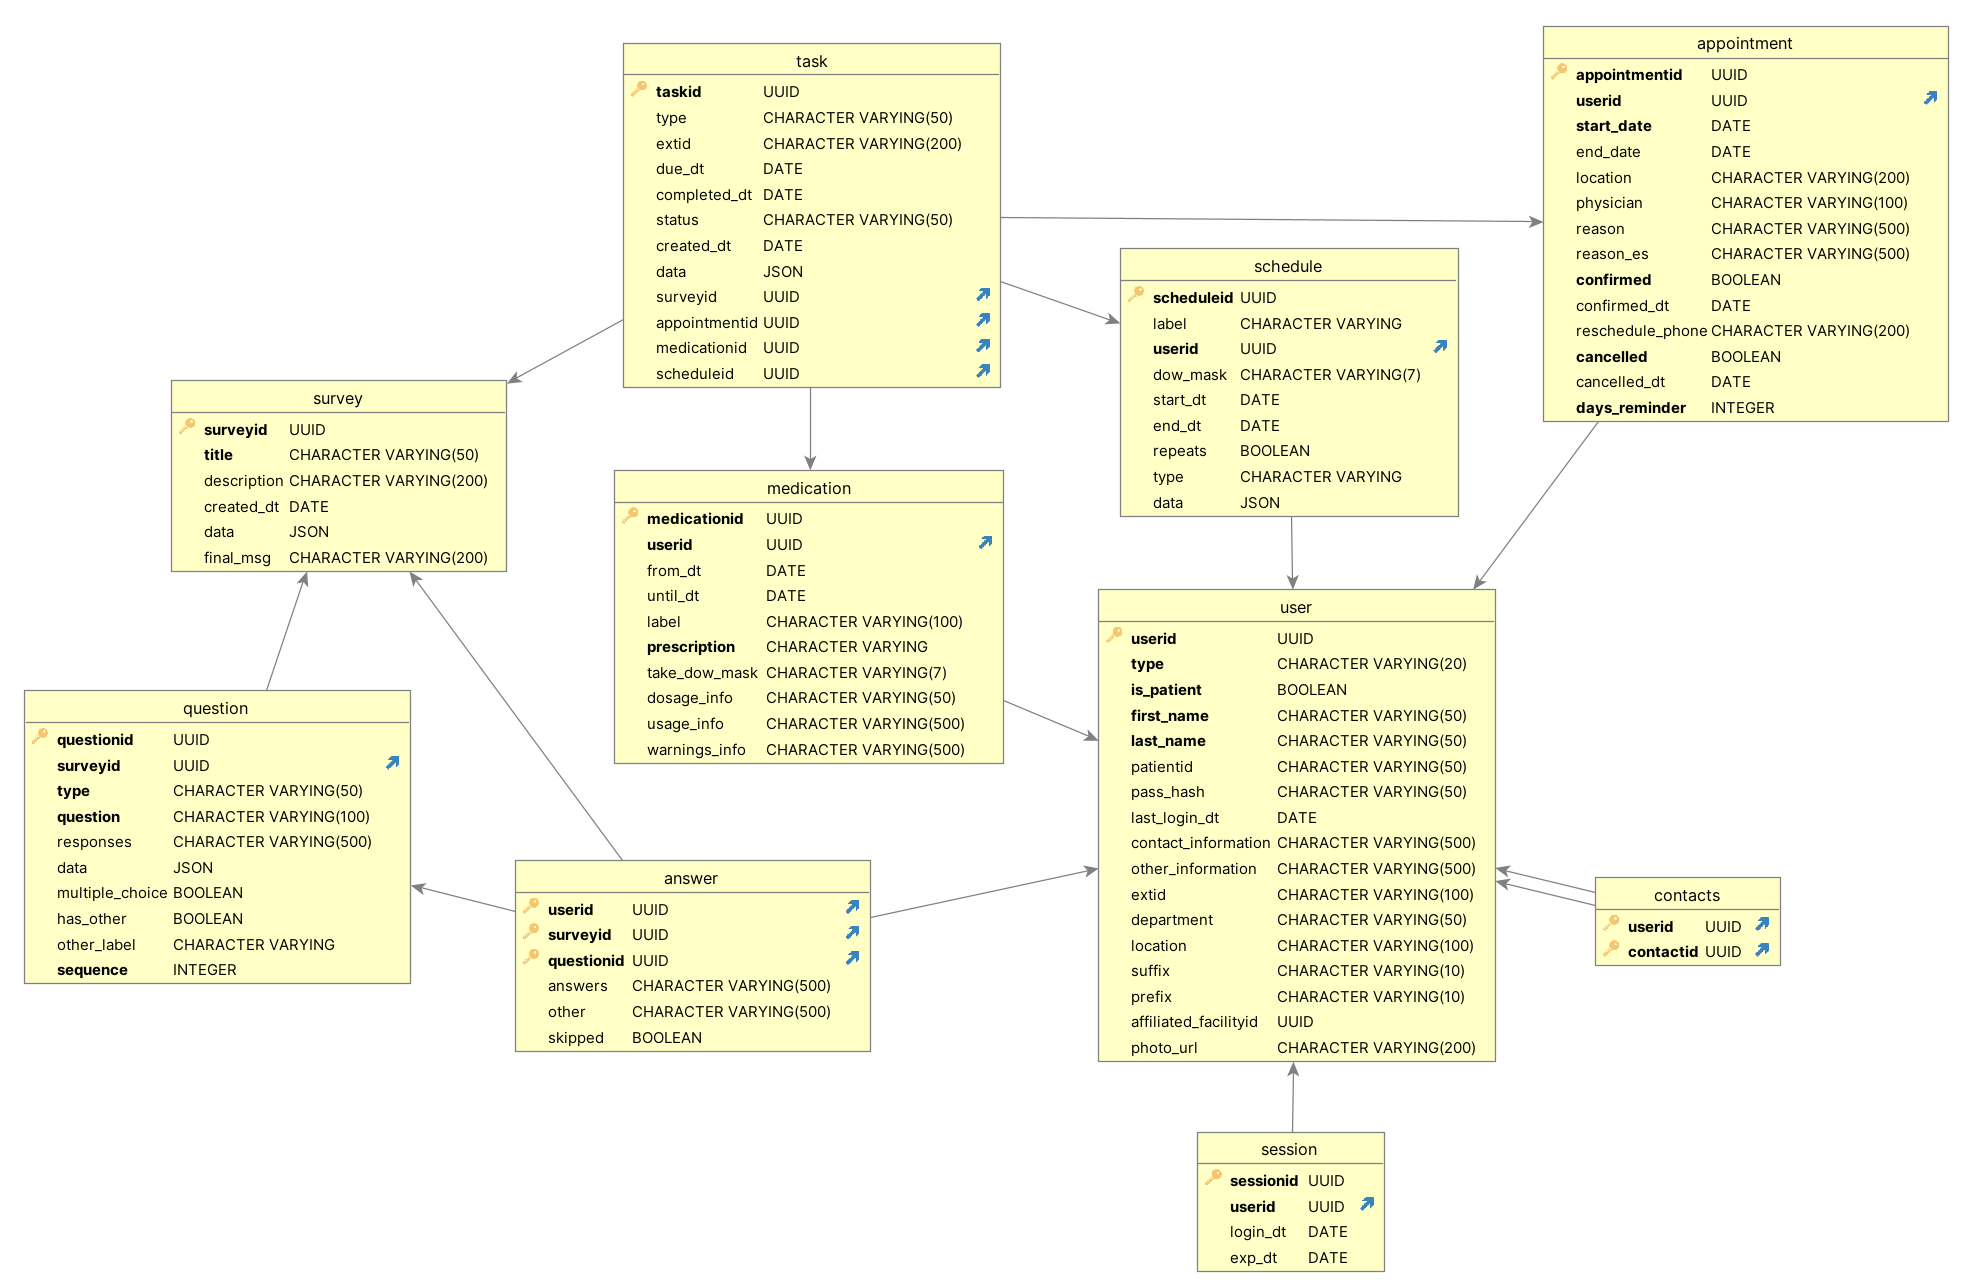
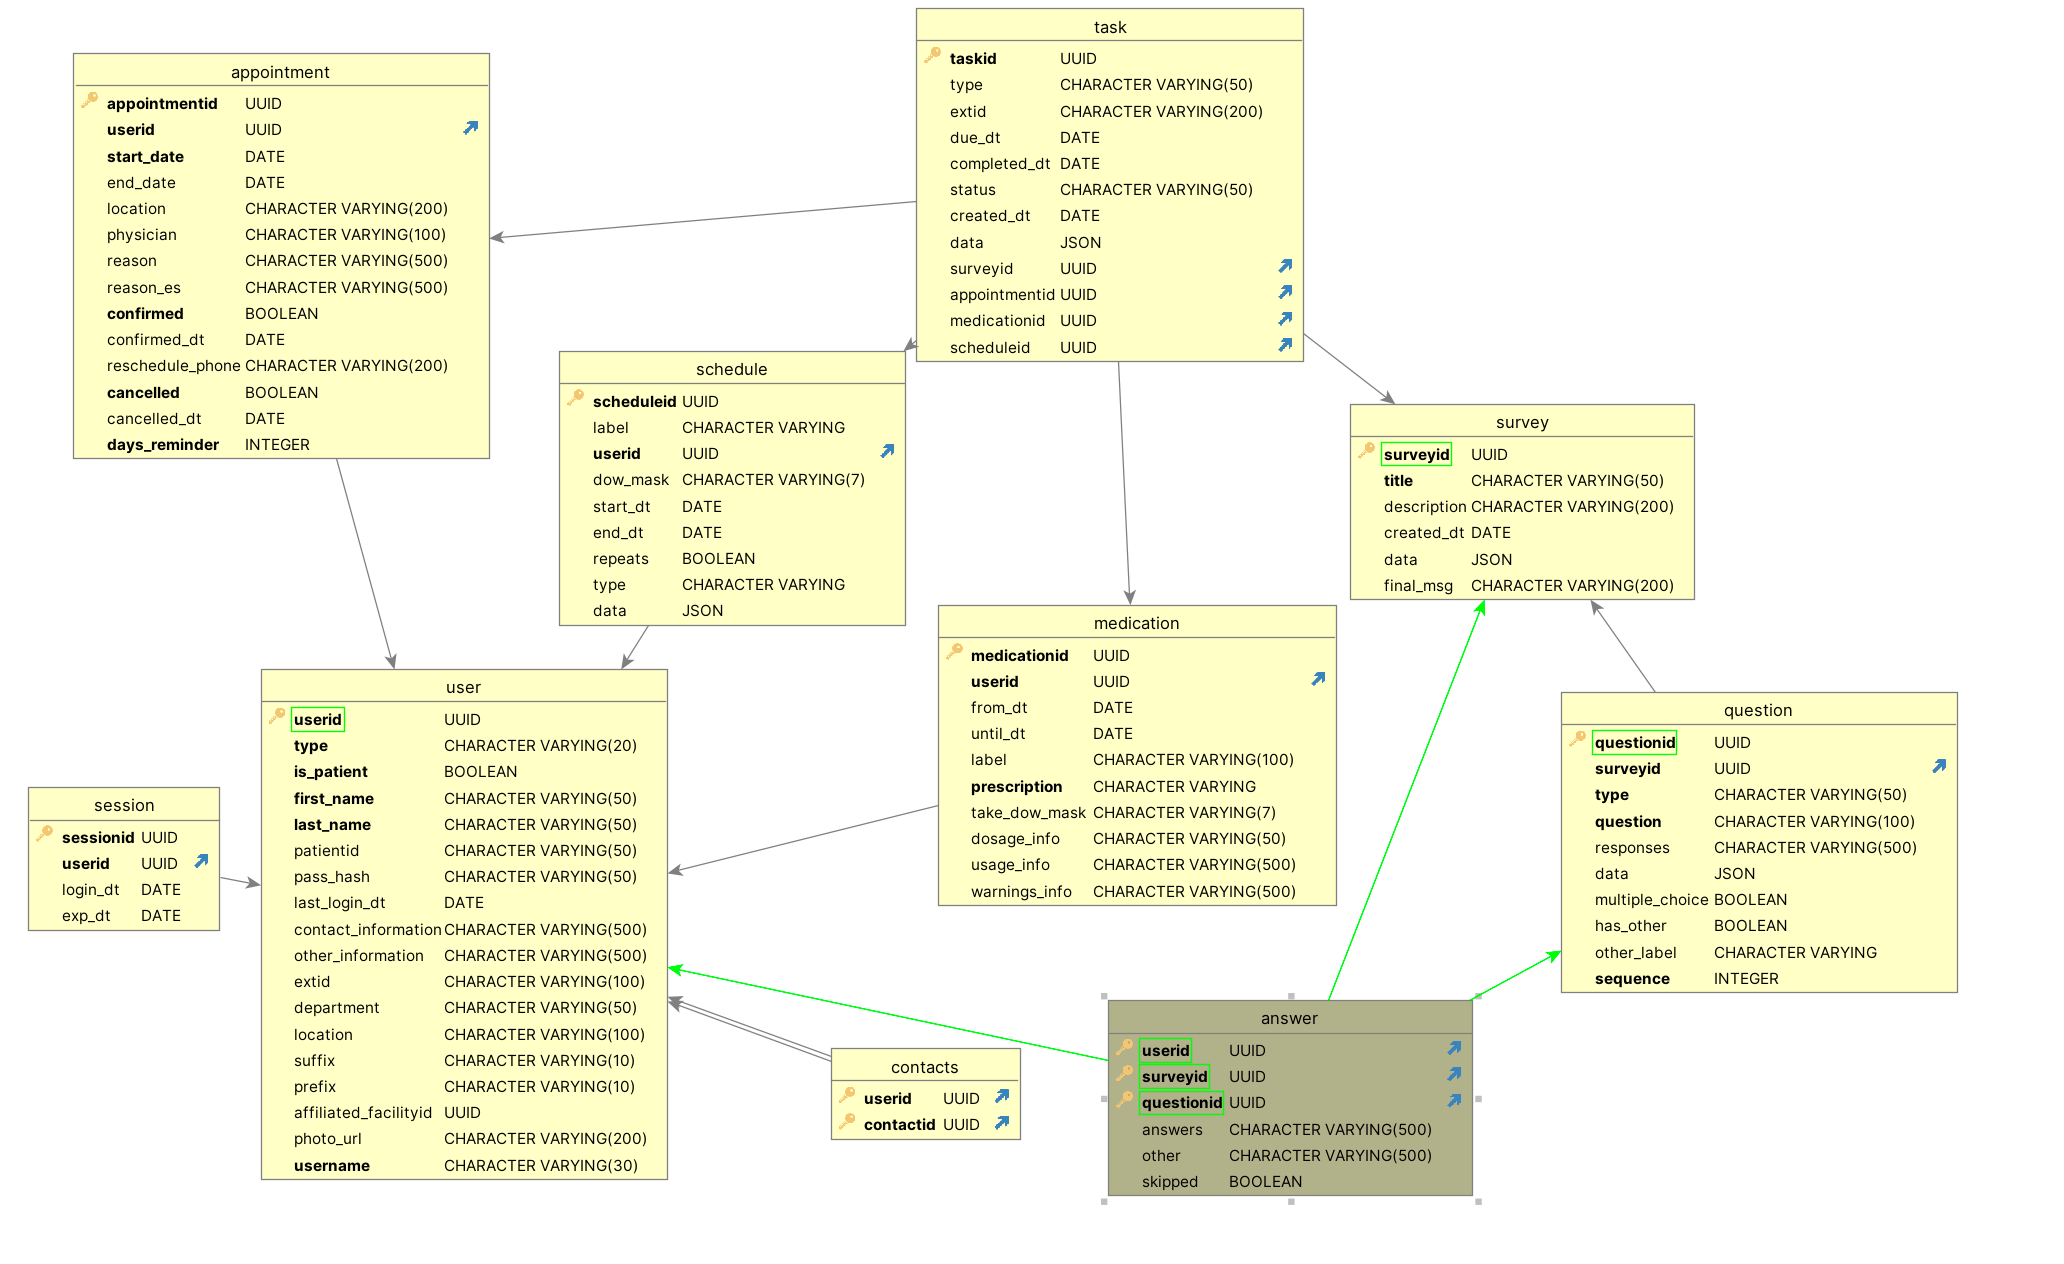
Updated /login.  Added username to user table

diff --git a/backend/api/auth.py b/backend/api/auth.py
@@ -1,36 +1,38 @@
 from fastapi import APIRouter
-from flask import Flask, request, jsonify
 from api.db_utils import create_connection, md5_hash
+from pydantic import BaseModel
+from fastapi.responses import JSONResponse
 
 router = APIRouter()
 
+# Class for credential
+class Credential(BaseModel):
+    username: str
+    password: str
+
 @router.post('/login')
-def login():
-    data = request.get_json()
+async def login(credential:Credential):
 
-    if 'username' not in data or 'password' not in data:
-        return jsonify({'error': 'Username and password are required'}), 400
-
-    username = data['username']
-    password = data['password']
+    if not credential.username or not credential.password:
+        return JSONResponse(content={'error': 'Username and password are required'}, status_code=400)
 
     try:
         conn = create_connection()
         cursor = conn.cursor()
 
         # Check if the user exists in the database
-        cursor.execute("SELECT * FROM \"user\" WHERE lower(first_name) = lower(%s) AND pass_hash = %s", (username, md5_hash(password)))
+        cursor.execute("SELECT * FROM user WHERE lower(username) = lower(%s) AND pass_hash = %s", (credential.username, md5_hash(credential.password)))
         user = cursor.fetchone()
 
         if user:
             # If the user exists, you can return a token or other authentication mechanism
             # For simplicity, returning a success message here
-            return jsonify({'message': 'Login successful'})
+            return JSONResponse(content={'message': 'Login successful'}, status_code=200)
 
-        return jsonify({'error': 'Invalid username or password'}), 401
+        return JSONResponse(content={'error': 'Invalid username or password'}, status_code=401)
 
     except Exception as e:
-        return jsonify({'error': str(e)}), 500
+        return JSONResponse(content={'error': str(e)}, status_code=500)
 
     finally:
         cursor.close()

diff --git a/backend/Readme.md b/backend/Readme.md
@@ -10,11 +10,11 @@
 
 2. run:
 
-  `uvicorn main:app --reload`
+  `uvicorn main:app --reload --host 0.0.0.0 --port 8080`
 
 3. use "reload" flag only for development
 
-4. find docs here:
+4. find swagger docs here:
 
-   http://127.0.0.1:8000/docs
+   [http://127.0.0.1:8080/docs](https://www.chefmaezaki.com/)
 
